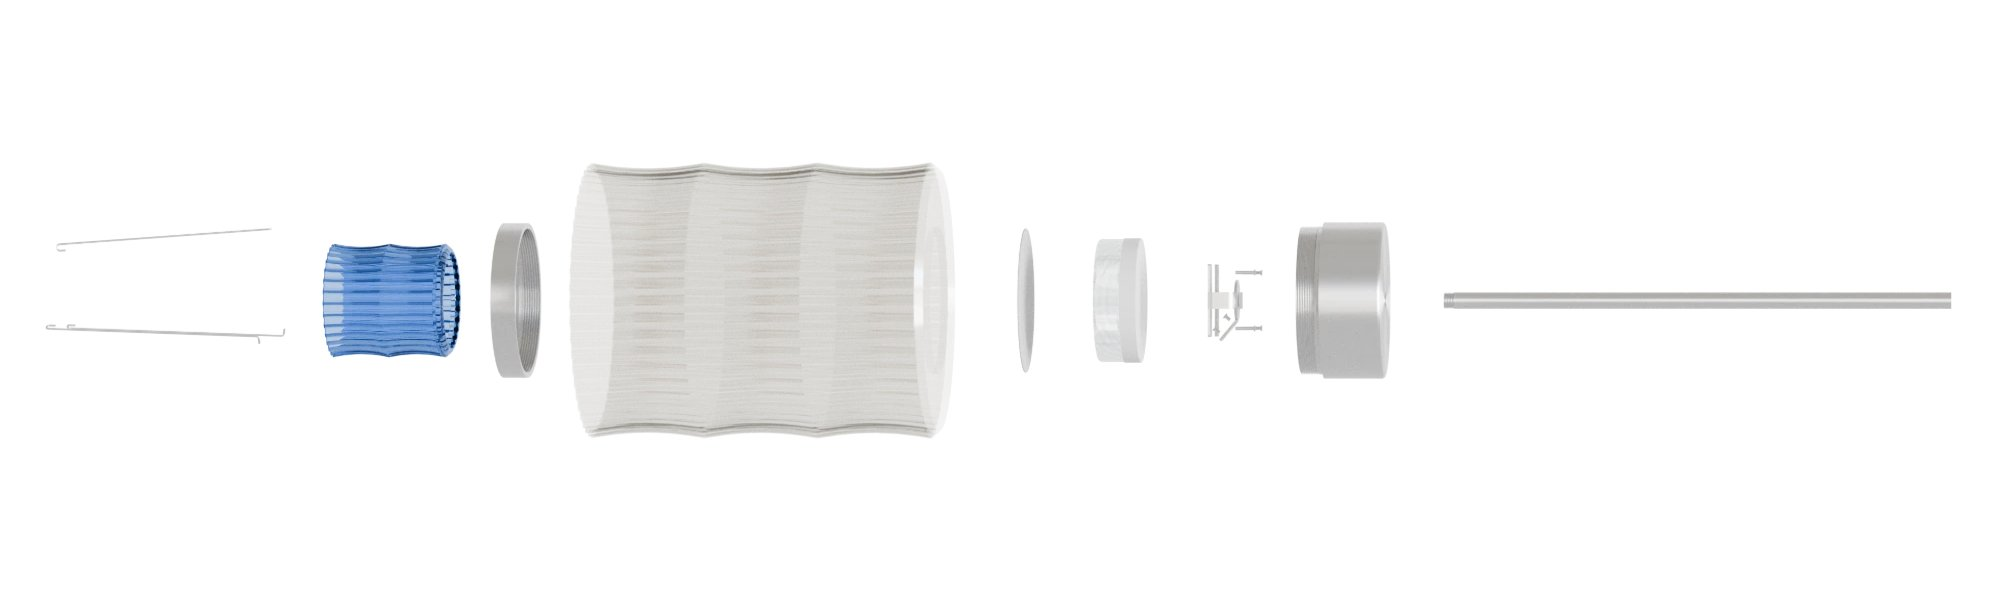
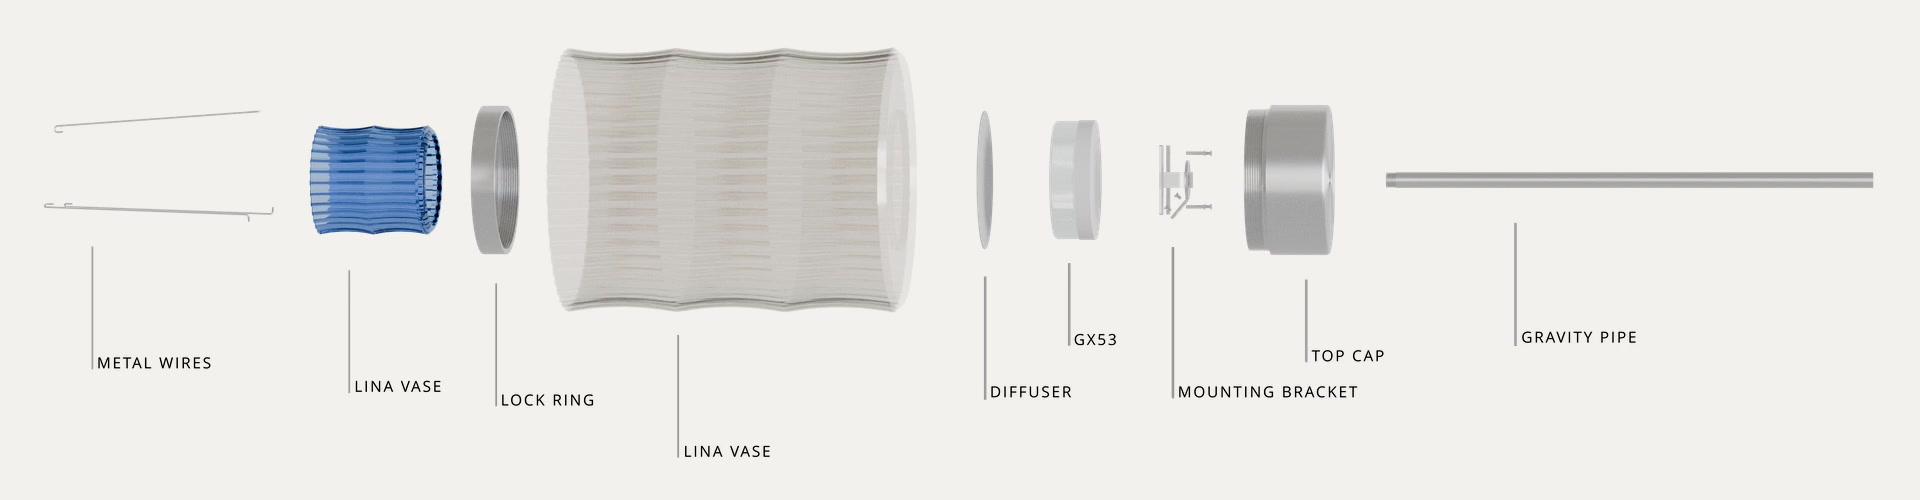
Celina: own light diagram, labelled exploded view, fewer images
Replace the Swedish light-path diagram with an English inline SVG in the
site's style (tools/diagrams/celina-light.svg). Use the labelled frame
from the exploded-view video. Remove the GX53 holder, lathe and studio
render images.

Claude-Session: https://claude.ai/code/session_01Hcn1o19qZG1QMcFy8LNuMR

diff --git a/projects/celina.html b/projects/celina.html
@@ -63,11 +63,10 @@
       <p>Celina uses glass Reijmyre already blows, so no new moulds are needed. Everything else is standard or simple to make: a GX53 LED puck, three CNC-turned aluminium parts modelled in Fusion 360, and one bent sheet-metal bracket. The construction tolerates the natural variation of hand-blown glass.</p>
       <p>Assembly is just as simple. The glass is clamped mechanically between the top cap and the lower lock ring, and the inner vase hangs from three 1 mm wires tensioned in the lock ring, which adds to the floating effect. A 300 mm gravity pipe keeps the lamp hanging straight, the power cable runs hidden through the pendant tube, and the bracket with integrated strain relief lets the ceiling canopy stay small.</p><div class="ph txt"><b>Placeholder · CAD / section view</b>Add a Fusion 360 section view showing the parts.</div></div>
     </div>
-    <div class="media  reveal"><figure class="fit"><img src="../assets/img/cel-exploded.jpg" alt="Exploded view of Celina: wires, coloured inner glass, lock ring, outer glass, diffuser, GX53 puck, bracket, top cap and gravity pipe" loading="lazy"></figure></div><p class="cap">All components, from the 1 mm wires and inner glass to the top cap and gravity pipe.</p>
-    <div class="media c2 reveal"><figure class="r34"><img src="../assets/img/cel-lathe.jpg" alt="CNC lathe turning the aluminium top cap" loading="lazy"></figure><figure class="r34"><img src="../assets/img/cel-turned.jpg" alt="Turned aluminium top cap on its technical drawing" loading="lazy"></figure></div>
-    <div class="media c2 reveal"><figure class="r34"><img src="../assets/img/cel-pipe.jpg" alt="The gravity pipe mounted in the turned top cap" loading="lazy"></figure><figure class="r34"><img src="../assets/img/cel-wiring.jpg" alt="Fitting the bracket and GX53 holder into the top cap" loading="lazy"></figure></div><p class="cap">CNC-turned aluminium parts, machined from technical drawings.</p>
-    <div class="media c2 reveal"><figure class="r11 fit"><img src="../assets/img/cel-gx53.jpg" alt="Standard GX53 lamp holder" loading="lazy"></figure><figure class="r11"><img src="../assets/img/cel-bracket.jpg" alt="Bent sheet-metal bracket with strain relief mounted on the GX53 holder" loading="lazy"></figure></div><p class="cap">A standard GX53 holder, fixed to the pendant tube by a bent sheet-metal bracket with built-in strain relief.</p>
-    <div class="media c2 reveal"><figure class="r34"><img src="../assets/img/cel-assembly.jpg" alt="Assembling the glass into the finished lamp" loading="lazy"></figure><figure class="r34 fit"><img src="../assets/img/cel-studio.jpg" alt="Studio render of Celina showing the inner vase hanging on thin wires" loading="lazy"></figure></div><p class="cap">Final assembly, and the finished design.</p>
+    <div class="media  reveal"><figure class="fit"><img src="../assets/img/cel-exploded.jpg" alt="Exploded view of Celina with every part named: metal wires, Lina vase, lock ring, outer Lina vase, diffuser, GX53, mounting bracket, top cap and gravity pipe" loading="lazy"></figure></div>
+    <div class="media c2 reveal"><figure class="r34"><img src="../assets/img/cel-turned.jpg" alt="Turned aluminium top cap on its technical drawing" loading="lazy"></figure><figure class="r34"><img src="../assets/img/cel-pipe.jpg" alt="The gravity pipe mounted in the turned top cap" loading="lazy"></figure></div><p class="cap">CNC-turned aluminium parts, machined from technical drawings.</p>
+    <div class="media c2 reveal"><figure class="r34"><img src="../assets/img/cel-bracket.jpg" alt="Bent sheet-metal bracket with strain relief mounted on the GX53 holder" loading="lazy"></figure><figure class="r34"><img src="../assets/img/cel-wiring.jpg" alt="Fitting the bracket and GX53 holder into the top cap" loading="lazy"></figure></div><p class="cap">A bent sheet-metal bracket with built-in strain relief holds the GX53 holder in the top cap.</p>
+    <div class="media c2 reveal"><figure class="r34"><img src="../assets/img/cel-assembly.jpg" alt="Assembling the glass into the finished lamp" loading="lazy"></figure><figure class="r34"><img src="../assets/img/cel-lit.jpg" alt="The assembled lamp lit, with the blue inner glass glowing inside the ribbed outer glass" loading="lazy"></figure></div><p class="cap">Final assembly, and the first time the lamp is lit.</p>
   </section>
   <section class="chapter wrap">
     <div class="chapter-text reveal">
@@ -76,8 +75,76 @@
       <p>The top of the inner vase is cut off so it directs an even beam downwards, and a fabric diffuser in the lock ring spreads the light and prevents glare. Most of the light falls through the inner vase onto the table, while the ribbed outer glass glows softly around it.</p>
       <div class="facts-row"><div>GX53<small>LED puck</small></div><div>2700 K<small>Colour temperature</small></div><div>500 lm<small>Luminous flux</small></div><div>300 mm<small>Gravity pipe</small></div></div></div>
     </div>
-    <div class="media c2 reveal"><figure class="r34"><img src="../assets/img/cel-lit.jpg" alt="Celina lit, with the blue inner glass glowing inside the ribbed outer glass" loading="lazy"></figure><figure class="r34 fit"><img src="../assets/img/cel-lightpath.jpg" alt="Diagram of how light leaves Celina" loading="lazy"></figure></div>
-    <div class="media  reveal"><figure class="fit"><img src="../assets/img/cel-diffuser.jpg" alt="How the fabric diffuser scatters light" loading="lazy"></figure></div>
+    <div class="media c2 reveal"><figure class="r11 fit"><svg viewBox="0 0 1000 1000" xmlns="http://www.w3.org/2000/svg" role="img" aria-label="Section diagram of Celina showing how light leaves the lamp: a fabric diffuser softens the GX53 source, light passes through the open top of the inner vase and falls down onto the table, while the ribbed outer glass glows softly" style="width:100%;height:100%;display:block;font-family:var(--font)">
+  <defs>
+    <clipPath id="cl-outer"><path d="M310 330 C302 400 302 450 314 510 C326 570 326 630 314 690 C302 750 302 810 312 860 L688 860 C698 810 698 750 686 690 C674 630 674 570 686 510 C698 450 698 400 690 330 Z"/></clipPath>
+    <clipPath id="cl-inner"><rect x="428" y="540" width="144" height="170" rx="6"/></clipPath>
+    <linearGradient id="cl-metal" x1="0" x2="1"><stop offset="0" stop-color="#B9B7B0"/><stop offset=".45" stop-color="#E6E4DE"/><stop offset="1" stop-color="#A9A79F"/></linearGradient>
+    <linearGradient id="cl-beam" x1="0" y1="0" x2="0" y2="1"><stop offset="0" stop-color="#F0A93B" stop-opacity=".75"/><stop offset="1" stop-color="#F0A93B" stop-opacity="0"/></linearGradient>
+  </defs>
+  <rect width="1000" height="1000" fill="#F2F1ED"/>
+
+  <!-- downward light through the inner vase -->
+  <path d="M440 352 L560 352 L630 945 L370 945 Z" fill="url(#cl-beam)" opacity=".55"/>
+  <g stroke="#F0A93B" stroke-width="3" stroke-linecap="round" opacity=".8">
+    <line x1="455" y1="360" x2="395" y2="925"/><line x1="472" y1="360" x2="445" y2="925"/>
+    <line x1="490" y1="360" x2="485" y2="925"/><line x1="510" y1="360" x2="515" y2="925"/>
+    <line x1="528" y1="360" x2="555" y2="925"/><line x1="545" y1="360" x2="605" y2="925"/>
+  </g>
+
+  <!-- outer Lina vase, clear and ribbed -->
+  <g clip-path="url(#cl-outer)">
+    <rect x="300" y="320" width="400" height="560" fill="#FFFFFF" opacity=".45"/>
+    <g stroke="#C9C7C0" stroke-width="2">
+      <line x1="322" y1="320" x2="322" y2="870"/><line x1="340" y1="320" x2="340" y2="870"/><line x1="358" y1="320" x2="358" y2="870"/><line x1="376" y1="320" x2="376" y2="870"/><line x1="394" y1="320" x2="394" y2="870"/>
+      <line x1="606" y1="320" x2="606" y2="870"/><line x1="624" y1="320" x2="624" y2="870"/><line x1="642" y1="320" x2="642" y2="870"/><line x1="660" y1="320" x2="660" y2="870"/><line x1="678" y1="320" x2="678" y2="870"/>
+    </g>
+  </g>
+  <path d="M310 330 C302 400 302 450 314 510 C326 570 326 630 314 690 C302 750 302 810 312 860 M690 330 C698 400 698 450 686 510 C674 570 674 630 686 690 C698 750 698 810 688 860" fill="none" stroke="#8E8C85" stroke-width="2.5"/>
+  <ellipse cx="500" cy="860" rx="188" ry="14" fill="none" stroke="#B9B7B0" stroke-width="2"/>
+
+  <!-- soft ambient glow through the ribbed glass -->
+  <g stroke="#F0A93B" stroke-width="12" stroke-linecap="round" fill="none" opacity=".28">
+    <path d="M268 420 q-28 6 -52 0"/><path d="M262 500 q-30 6 -56 0"/><path d="M270 580 q-30 6 -56 0"/><path d="M268 660 q-30 6 -56 0"/><path d="M262 740 q-30 6 -56 0"/><path d="M268 820 q-28 6 -52 0"/>
+    <path d="M738 500 q30 6 56 0"/><path d="M730 580 q30 6 56 0"/><path d="M732 660 q30 6 56 0"/><path d="M738 740 q30 6 56 0"/><path d="M732 820 q28 6 52 0"/>
+  </g>
+
+  <!-- metal wires holding the inner vase -->
+  <g stroke="#6E6D68" stroke-width="1.5"><line x1="372" y1="338" x2="432" y2="544"/><line x1="628" y1="338" x2="568" y2="544"/></g>
+
+  <!-- coloured inner vase, top cut off -->
+  <rect x="428" y="540" width="144" height="170" rx="6" fill="#4C74C4" opacity=".62"/>
+  <g clip-path="url(#cl-inner)" stroke="#2F57A8" stroke-width="2" opacity=".6">
+    <line x1="446" y1="540" x2="446" y2="710"/><line x1="464" y1="540" x2="464" y2="710"/><line x1="482" y1="540" x2="482" y2="710"/><line x1="500" y1="540" x2="500" y2="710"/><line x1="518" y1="540" x2="518" y2="710"/><line x1="536" y1="540" x2="536" y2="710"/><line x1="554" y1="540" x2="554" y2="710"/>
+  </g>
+  <ellipse cx="500" cy="541" rx="72" ry="9" fill="#F7D9A6" stroke="#2F57A8" stroke-width="2"/>
+
+  <!-- pipe, top cap, lock ring, GX53 puck and diffuser -->
+  <rect x="492" y="0" width="16" height="250" fill="url(#cl-metal)"/>
+  <rect x="404" y="248" width="192" height="72" rx="4" fill="url(#cl-metal)"/>
+  <rect x="362" y="318" width="276" height="20" rx="3" fill="url(#cl-metal)"/>
+  <rect x="432" y="300" width="136" height="30" rx="5" fill="#FFFFFF" stroke="#C9C7C0" stroke-width="2"/>
+  <line x1="412" y1="352" x2="588" y2="352" stroke="#141414" stroke-width="3" stroke-dasharray="2 5" stroke-linecap="round"/>
+
+  <!-- labels -->
+  <g fill="none" stroke="#141414" stroke-width="1.5">
+    <polyline points="590,352 700,250 735,250"/>
+    <polyline points="572,560 735,470"/>
+    <polyline points="306,385 262,300 30,300"/>
+  </g>
+  <g fill="#141414"><circle cx="590" cy="352" r="5"/><circle cx="572" cy="560" r="5"/><circle cx="306" cy="385" r="5"/></g>
+  <g font-size="25" fill="#141414" letter-spacing="-0.2">
+    <text x="745" y="243">Fabric diffuser</text>
+    <text x="745" y="463">Inner vase</text>
+    <text x="30" y="226">Ribbed outer glass</text>
+  </g>
+  <g font-size="21" fill="#6E6D68">
+    <text x="745" y="272">Softens the source</text><text x="745" y="298">and prevents glare</text>
+    <text x="745" y="492">Top cut off to let</text><text x="745" y="518">light through</text>
+    <text x="30" y="255">Soft, glare-free</text><text x="30" y="281">ambient glow</text>
+  </g>
+  <text x="500" y="990" font-size="21" fill="#6E6D68" text-anchor="middle">Stronger light directed down onto the table</text>
+</svg></figure><figure class="r11 fit"><img src="../assets/img/cel-diffuser.jpg" alt="How the fabric diffuser scatters light" loading="lazy"></figure></div>
   </section>
   <section class="chapter wrap">
     <div class="chapter-text reveal">

diff --git a/tools/build_pages.py b/tools/build_pages.py
@@ -126,6 +126,11 @@ def ph(title, text, cls="r45"):
     return f'<div class="ph {cls}"><b>Placeholder · {title}</b>{text}</div>'
 
 
+def svgfig(name, cls="r11 fit"):
+    svg = open(os.path.join(os.path.dirname(os.path.abspath(__file__)), "diagrams", name), encoding="utf-8").read().strip()
+    return f'<figure class="{cls}">{svg}</figure>'
+
+
 def media(cols, *items, cap=None):
     c = f'<p class="cap">{cap}</p>' if cap else ""
     return f'    <div class="media {cols} reveal">{"".join(items)}</div>{c}\n'
@@ -173,17 +178,15 @@ h += chapter("Process", "From light lab to floating glass.", """
 h += chapter("Production &amp; assembly", "Optimised for production, easy to assemble.", """
       <p>Celina uses glass Reijmyre already blows, so no new moulds are needed. Everything else is standard or simple to make: a GX53 LED puck, three CNC-turned aluminium parts modelled in Fusion 360, and one bent sheet-metal bracket. The construction tolerates the natural variation of hand-blown glass.</p>
       <p>Assembly is just as simple. The glass is clamped mechanically between the top cap and the lower lock ring, and the inner vase hangs from three 1 mm wires tensioned in the lock ring, which adds to the floating effect. A 300 mm gravity pipe keeps the lamp hanging straight, the power cable runs hidden through the pendant tube, and the bracket with integrated strain relief lets the ceiling canopy stay small.</p>""" + ph("CAD / section view", "Add a Fusion 360 section view showing the parts.", "txt"),
-    media("", fig("cel-exploded.jpg", "Exploded view of Celina: wires, coloured inner glass, lock ring, outer glass, diffuser, GX53 puck, bracket, top cap and gravity pipe", "fit"), cap="All components, from the 1 mm wires and inner glass to the top cap and gravity pipe.") +
-    media("c2", fig("cel-lathe.jpg", "CNC lathe turning the aluminium top cap", "r34"), fig("cel-turned.jpg", "Turned aluminium top cap on its technical drawing", "r34")) +
-    media("c2", fig("cel-pipe.jpg", "The gravity pipe mounted in the turned top cap", "r34"), fig("cel-wiring.jpg", "Fitting the bracket and GX53 holder into the top cap", "r34"), cap="CNC-turned aluminium parts, machined from technical drawings.") +
-    media("c2", fig("cel-gx53.jpg", "Standard GX53 lamp holder", "r11 fit"), fig("cel-bracket.jpg", "Bent sheet-metal bracket with strain relief mounted on the GX53 holder", "r11"), cap="A standard GX53 holder, fixed to the pendant tube by a bent sheet-metal bracket with built-in strain relief.") +
-    media("c2", fig("cel-assembly.jpg", "Assembling the glass into the finished lamp", "r34"), fig("cel-studio.jpg", "Studio render of Celina showing the inner vase hanging on thin wires", "r34 fit"), cap="Final assembly, and the finished design."))
+    media("", fig("cel-exploded.jpg", "Exploded view of Celina with every part named: metal wires, Lina vase, lock ring, outer Lina vase, diffuser, GX53, mounting bracket, top cap and gravity pipe", "fit")) +
+    media("c2", fig("cel-turned.jpg", "Turned aluminium top cap on its technical drawing", "r34"), fig("cel-pipe.jpg", "The gravity pipe mounted in the turned top cap", "r34"), cap="CNC-turned aluminium parts, machined from technical drawings.") +
+    media("c2", fig("cel-bracket.jpg", "Bent sheet-metal bracket with strain relief mounted on the GX53 holder", "r34"), fig("cel-wiring.jpg", "Fitting the bracket and GX53 holder into the top cap", "r34"), cap="A bent sheet-metal bracket with built-in strain relief holds the GX53 holder in the top cap.") +
+    media("c2", fig("cel-assembly.jpg", "Assembling the glass into the finished lamp", "r34"), fig("cel-lit.jpg", "The assembled lamp lit, with the blue inner glass glowing inside the ribbed outer glass", "r34"), cap="Final assembly, and the first time the lamp is lit."))
 
 h += chapter("Light", "Soft ambience and useful light from one lamp.", """
       <p>The top of the inner vase is cut off so it directs an even beam downwards, and a fabric diffuser in the lock ring spreads the light and prevents glare. Most of the light falls through the inner vase onto the table, while the ribbed outer glass glows softly around it.</p>
       <div class="facts-row"><div>GX53<small>LED puck</small></div><div>2700 K<small>Colour temperature</small></div><div>500 lm<small>Luminous flux</small></div><div>300 mm<small>Gravity pipe</small></div></div>""",
-    media("c2", fig("cel-lit.jpg", "Celina lit, with the blue inner glass glowing inside the ribbed outer glass", "r34"), fig("cel-lightpath.jpg", "Diagram of how light leaves Celina", "r34 fit")) +
-    media("", fig("cel-diffuser.jpg", "How the fabric diffuser scatters light", "fit")))
+    media("c2", svgfig("celina-light.svg", "r11 fit"), fig("cel-diffuser.jpg", "How the fabric diffuser scatters light", "r11 fit")))
 
 h += chapter("Vernissage", "Shown at the final vernissage.", """
       <p>The finished prototype was presented at Linköping University in a staged dining scene, together with Reijmyre's glass. Celina gives Reijmyre a way to sell pieces they already make as a premium light.</p>""",
